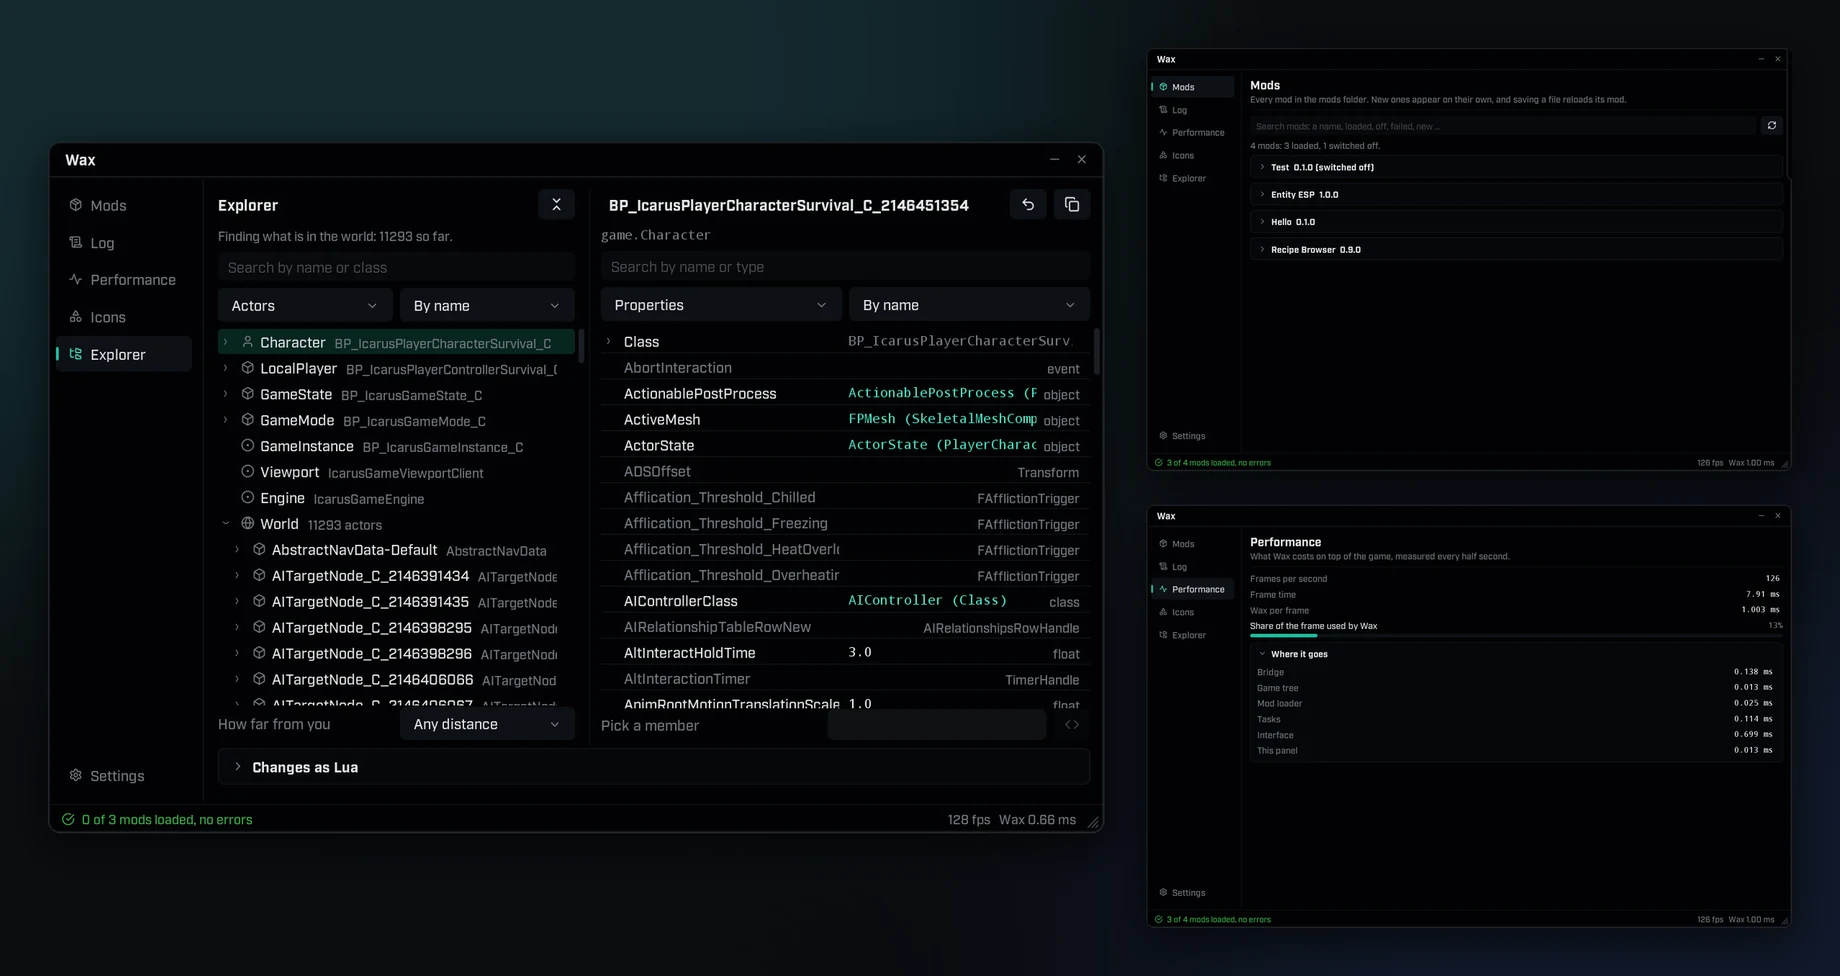
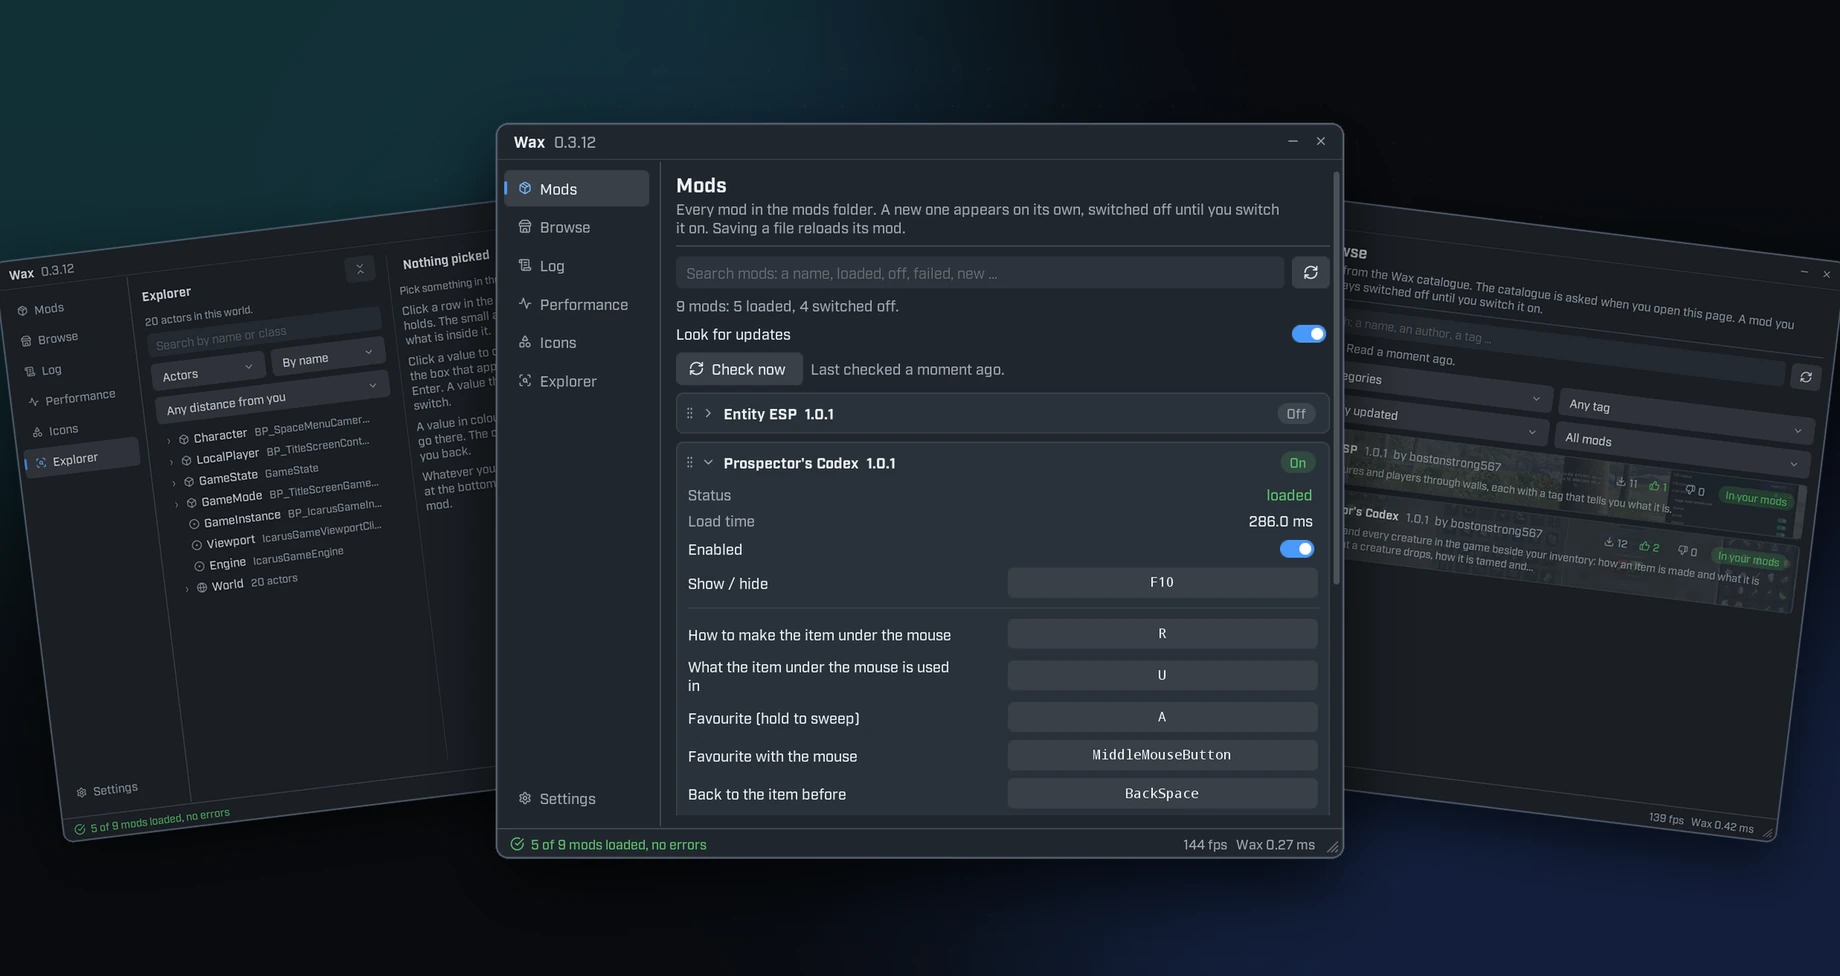
New showcase picture

diff --git a/lib/mod-pictures.ts b/lib/mod-pictures.ts
@@ -2,17 +2,21 @@ import { basePath } from '@/lib/shared';
 
 export type ModPicture = { src: string; alt: string; width: number; height: number };
 
-// Pictures of the mods on the Mods page. The files are in public/mods/<Id>/, all 1920 by 1080, and the first one
-// is what the mod's card shows. A mod that is not listed here has no pictures.
-const PICTURES: Record<string, { file: string; alt: string }[]> = {
+// Pictures of the mods on the Mods page. The files are in public/mods/<Id>/, and the first one
+// is what the mod's card shows. A mod that is not listed here has no pictures. The catalogue's own
+// pictures are used instead of these when it sends any.
+const PICTURES: Record<string, { file: string; alt: string; width: number; height: number }[]> = {
   EntityESP: [
-    { file: 'look.webp', alt: 'Four wolves tagged through the trees with their level, health and distance.' },
-    { file: 'creatures.webp', alt: 'The list of creature kinds, each with its own switch.' },
+    { file: 'look.webp', alt: 'Four wolves tagged through the trees with their level, health and distance.', width: 1920, height: 1080 },
+    { file: 'creatures.webp', alt: 'The list of creature kinds, each with its own switch.', width: 1920, height: 1080 },
   ],
   RecipeBrowser: [
-    { file: 'browse.webp', alt: 'Every item in a column beside the crafting tab, with favourites along the top.' },
-    { file: 'recipe.webp', alt: 'The recipes of one item: the benches that make it and how long each takes.' },
-    { file: 'materials.webp', alt: 'Everything ten compound bows take from raw materials, with the time for each step.' },
+    { file: '01-cover.jpg', alt: 'The Items list open beside the inventory, on the first page of every item.', width: 2560, height: 1440 },
+    { file: '02-materials.jpg', alt: 'Materials for one Automated Defense System, gathered and made in order, with the time and experience.', width: 640, height: 2417 },
+    { file: '03-recipe.jpg', alt: 'The recipe for the Automated Defense System flamethrower, made at a manufacturer and unlocking at level 40.', width: 640, height: 2417 },
+    { file: '04-bestiary.jpg', alt: 'The bestiary filtered to plant eaters, 45 creatures, on page 1 of 3.', width: 640, height: 2417 },
+    { file: '05-taming.jpg', alt: 'A tusker wearing a wooden cart, with the saddles that fit it.', width: 640, height: 2424 },
+    { file: '06-items.jpg', alt: 'Every item by category, on page 1 of 49.', width: 640, height: 2424 },
   ],
 };
 
@@ -20,7 +24,7 @@ export function picturesOf(id: string): ModPicture[] {
   return (PICTURES[id] ?? []).map((picture) => ({
     src: `${basePath}/mods/${id}/${picture.file}`,
     alt: picture.alt,
-    width: 1920,
-    height: 1080,
+    width: picture.width,
+    height: picture.height,
   }));
 }

diff --git a/app/(home)/page.tsx b/app/(home)/page.tsx
@@ -139,7 +139,7 @@ export default function HomePage() {
       <figure className="-mt-4 flex flex-col gap-3">
         <img
           src={`${basePath}/img/showcase.webp`}
-          alt="The Wax panel in the game. One window shows the explorer with the player picked and a list of its properties, one lists the mods, and one shows what Wax costs each frame."
+          alt="The Wax panel in the game, as three windows. In front, the Mods page with one mod open on its keys. Behind it, the Explorer with the game's objects, and the Browse page with the mods of the catalogue."
           width={1840}
           height={976}
           className="h-auto w-full rounded-xl border"

diff --git a/components/next-version.tsx b/components/next-version.tsx
@@ -2,7 +2,7 @@ import type { ReactNode } from 'react';
 import { Callout } from 'fumadocs-ui/components/callout';
 
 // The newest Wax a player can download. Raise it when a release is out: every mark on the site goes by it.
-export const RELEASED = '0.3.11';
+export const RELEASED = '0.3.12';
 // Set to true on the day the next version is released. Every mark then disappears from the site.
 export const NEXT_IS_OUT = true;
 
